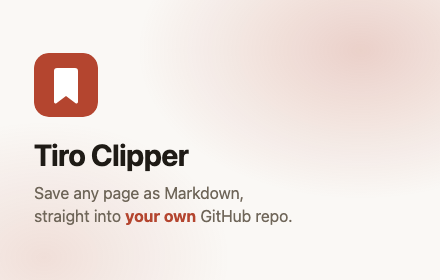
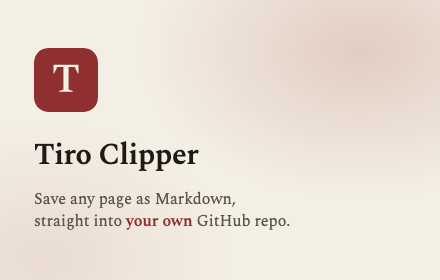
chore(extension): regenerate the store listing images
The promo tile and the settings screenshot follow the extension onto the
Later Reader palette and Spectral, loaded from the extension's own
node_modules so the compositions render what the popup ships. The
options capture is retaken from the redesigned page.

That capture can no longer come from a file:// load: the page's
stylesheet and fonts are now emitted assets with absolute /assets/ paths,
so it is served from dist/ over HTTP, and a development-build-only
`?preview` flag shows the empty first-run form instead of the "could not
load saved settings" error a page without chrome.storage would show. The
README has the new recipe and the retuned crop. The images are committed
for the next release; 0.12.0 is under review and a new upload would
restart that clock.

Changed region(s): [[0.0591, 0.6571, 0.6795, 0.8286], [0.0591, 0.1714, 0.2364, 0.4286], [0.0591, 0.4857, 0.4432, 0.6286]]

diff --git a/apps/extension/store/screenshot-1-settings.html b/apps/extension/store/screenshot-1-settings.html
@@ -1,27 +1,32 @@
 <!doctype html><meta charset="utf-8">
 <style>
+  /* Rendered over file:// by headless Chrome (see README.md); the fonts come
+     from the extension's own node_modules, the same files the popup ships. */
+  @font-face{font-family:"Spectral";font-weight:600;src:url("../node_modules/@fontsource/spectral/files/spectral-latin-600-normal.woff2") format("woff2")}
+  @font-face{font-family:"Spectral";font-weight:500;src:url("../node_modules/@fontsource/spectral/files/spectral-latin-500-normal.woff2") format("woff2")}
+  @font-face{font-family:"Spectral";font-weight:400;src:url("../node_modules/@fontsource/spectral/files/spectral-latin-400-normal.woff2") format("woff2")}
   html,body{margin:0;padding:0;width:1280px;height:800px;overflow:hidden}
   body{
-    font-family:-apple-system,BlinkMacSystemFont,"Segoe UI",Helvetica,Arial,sans-serif;
+    font-family:"Spectral",Georgia,serif;color:#1e1b16;
     background:
-      radial-gradient(900px 600px at 88% 12%, rgba(180,69,47,.16), transparent 60%),
-      radial-gradient(700px 500px at 6% 92%, rgba(180,69,47,.10), transparent 60%),
-      #faf8f5;
+      radial-gradient(900px 600px at 88% 12%, rgba(143,47,47,.14), transparent 60%),
+      radial-gradient(700px 500px at 6% 92%, rgba(143,47,47,.08), transparent 60%),
+      #f4efe4;
     display:flex;align-items:center;gap:64px;padding:0 72px;box-sizing:border-box;
   }
   .copy{width:470px;flex:none}
   .brand{display:flex;align-items:center;gap:14px;margin-bottom:28px}
   .brand img{width:52px;height:52px;border-radius:12px}
-  .brand span{font-size:26px;font-weight:700;color:#1f1b16;letter-spacing:-.01em}
-  h1{font-size:38px;line-height:1.18;margin:0 0 20px;color:#1f1b16;letter-spacing:-.02em}
-  p{font-size:19px;line-height:1.55;color:#6f6659;margin:0 0 26px}
+  .brand span{font-size:26px;font-weight:600;letter-spacing:-.01em}
+  h1{font-size:40px;font-weight:500;line-height:1.15;margin:0 0 20px;letter-spacing:-.015em}
+  p{font-size:19px;line-height:1.55;color:#5a544a;margin:0 0 26px}
   ul{margin:0;padding:0;list-style:none}
-  li{font-size:17px;color:#1f1b16;margin-bottom:13px;padding-left:30px;position:relative}
+  li{font-size:17px;margin-bottom:13px;padding-left:30px;position:relative}
   li:before{content:"";position:absolute;left:0;top:7px;width:16px;height:16px;border-radius:50%;
-            background:#b4452f;box-shadow:inset 0 0 0 4px #faf8f5}
+            background:#8f2f2f;box-shadow:inset 0 0 0 4px #f4efe4}
   .shot{flex:1;display:flex;justify-content:center}
-  .shot img{width:600px;border-radius:14px;border:1px solid #d6cec1;background:#fff;
-            box-shadow:0 24px 60px rgba(31,35,40,.16),0 4px 12px rgba(31,35,40,.08)}
+  .shot img{width:600px;border-radius:14px;
+            box-shadow:0 24px 60px rgba(30,27,22,.16),0 4px 12px rgba(30,27,22,.08)}
 </style>
 <div class="copy">
   <div class="brand">

diff --git a/apps/extension/store/promo-tile-440x280.html b/apps/extension/store/promo-tile-440x280.html
@@ -1,6 +1,20 @@
 <!doctype html>
 <meta charset="utf-8" />
 <style>
+  /* Rendered over file:// by headless Chrome (see README.md); the fonts come
+     from the extension's own node_modules, the same files the popup ships. */
+  @font-face {
+    font-family: "Spectral";
+    font-weight: 600;
+    src: url("../node_modules/@fontsource/spectral/files/spectral-latin-600-normal.woff2")
+      format("woff2");
+  }
+  @font-face {
+    font-family: "Spectral";
+    font-weight: 400;
+    src: url("../node_modules/@fontsource/spectral/files/spectral-latin-400-normal.woff2")
+      format("woff2");
+  }
   html,
   body {
     margin: 0;
@@ -10,49 +24,49 @@
     overflow: hidden;
   }
   body {
-    font-family:
-      -apple-system, BlinkMacSystemFont, "Segoe UI", Helvetica, Arial,
-      sans-serif;
+    font-family: "Spectral", Georgia, serif;
     background:
       radial-gradient(
         360px 240px at 82% 18%,
-        rgba(180, 69, 47, 0.22),
+        rgba(143, 47, 47, 0.18),
         transparent 62%
       ),
       radial-gradient(
         300px 220px at 10% 92%,
-        rgba(180, 69, 47, 0.14),
+        rgba(143, 47, 47, 0.1),
         transparent 62%
       ),
-      #faf8f5;
+      #f4efe4;
     display: flex;
     flex-direction: column;
     justify-content: center;
     padding: 0 34px;
     box-sizing: border-box;
+    color: #1e1b16;
   }
   /* A promo tile is read at a glance and often at half size, so it carries the
      mark and four words rather than a description. */
   img {
     width: 64px;
     height: 64px;
-    border-radius: 15px;
+    border-radius: 14px;
     margin-bottom: 20px;
   }
   h1 {
     margin: 0 0 10px;
     font-size: 30px;
-    letter-spacing: -0.02em;
-    color: #1f1b16;
+    font-weight: 600;
+    letter-spacing: -0.015em;
   }
   p {
     margin: 0;
     font-size: 16px;
     line-height: 1.4;
-    color: #6f6659;
+    color: #5a544a;
   }
   b {
-    color: #b4452f;
+    font-weight: 600;
+    color: #8f2f2f;
   }
 </style>
 <!-- The SVG, not icon-128.png: that file carries the store listing's 16px

diff --git a/apps/extension/src/options/options.ts b/apps/extension/src/options/options.ts
@@ -94,6 +94,16 @@ function describeConnection(r: ConnectionTestResult): string {
 }
 
 async function init(): Promise<void> {
+  if (__DEV_FIXTURES__) {
+    // A development build served outside the extension has no chrome.storage
+    // to load from; `?preview` shows the empty form as it looks on first
+    // open, which is what the store listing's screenshot captures. Removed
+    // from production builds with the define.
+    if (new URLSearchParams(location.search).has("preview")) {
+      applyText("en");
+      return;
+    }
+  }
   // Interacting while the stored values are still loading would go wrong in
   // both directions — a typed value or language pick clobbered by the late
   // load, or Save persisting a still-empty config — so the form stays inert

diff --git a/apps/extension/store/README.md b/apps/extension/store/README.md
@@ -40,17 +40,23 @@ to exactly 1280×800 or drop it into a copy of the composition below in place of
 
 ## Regenerating the images
 
-From the repo root. The first step re-captures the options UI; the last two
-compose the listing images:
+From the repo root. The options capture needs a **development build served
+over HTTP**: the page's stylesheet and fonts are external assets with
+absolute `/assets/…` paths (they were inline before the redesign), so
+`file://` cannot load them, and `?preview` — honoured only by a development
+build — shows the empty first-run form instead of the "could not load saved
+settings" error the page shows when there is no `chrome.storage` around.
+The two compositions still render over `file://`.
 
 ```sh
 CHROME="/Applications/Google Chrome.app/Contents/MacOS/Google Chrome"
-bun run --cwd apps/extension build
+bun run --cwd apps/extension build:dev
+(cd apps/extension/dist && python3 -m http.server 4322 --bind 127.0.0.1 &)
 
 "$CHROME" --headless --disable-gpu --hide-scrollbars \
-  --force-device-scale-factor=2 --window-size=560,500 \
+  --force-device-scale-factor=2 --window-size=560,600 \
   --screenshot="apps/extension/store/options-ui.png" \
-  "file://$PWD/apps/extension/dist/src/options/options.html"
+  "http://127.0.0.1:4322/src/options/options.html?preview"
 
 "$CHROME" --headless --disable-gpu --hide-scrollbars \
   --force-device-scale-factor=1 --window-size=1280,800 \
@@ -63,24 +69,31 @@ bun run --cwd apps/extension build
   "file://$PWD/apps/extension/store/promo-tile-440x280.html"
 ```
 
+Then run a production build again before packaging — `build:dev` leaves a
+development bundle in `dist/`.
+
 Confirm the sizes afterwards — the store rejects anything off by a pixel:
 
 ```sh
 file apps/extension/store/*.png
 # expect 1280x800 (screenshot) and 440x280 (promo tile) — the store uploads.
-# options-ui.png is 1120x1000: the 2x intermediate capture the screenshot
+# options-ui.png is 1120x1200: the 2x intermediate capture the screenshot
 # composition embeds, never uploaded itself.
 ```
 
 Notes that will save you a confused half hour:
 
-- The options page renders over `file://` because its CSS is inline; only its
-  JS is external, and that JS would fail outside an extension context anyway.
-  The empty-state form is exactly what should be in the listing.
-- `--window-size` is the crop, not a scale. 500 is tuned to end just under the
-  Save row — raising it re-introduces dead space, and the old 425 now crops
-  the buttons away entirely (the Language select added in 0.4.0 grew the page).
+- `--window-size` is the crop, not a scale. 600 fits the settings card with
+  its paper margin above and below; the card grew with the redesign, so an
+  older 500 crops the buttons away.
+- The compositions load Spectral from `../node_modules/@fontsource/spectral/`
+  — the same files the popup ships — so they need `bun install` to have run.
+  Their palette is the site's (ADR 0014): cream `#f4efe4`, oxblood `#8f2f2f`,
+  ink `#1e1b16`.
 - Chrome writes a screenshot whether or not the page loaded, so look at the
   result. A "This site can't be reached" listing image is a real failure mode
-  (a system proxy can swallow `http://127.0.0.1`, which is why these use
-  `file://`).
+  (a system proxy can swallow `http://127.0.0.1`; if it does, unset the proxy
+  for the capture rather than falling back to `file://`, which cannot load
+  the stylesheet).
+- Never pass `--user-data-dir`: with a throwaway profile Chrome writes the
+  file and then sits in first-run work until killed.
